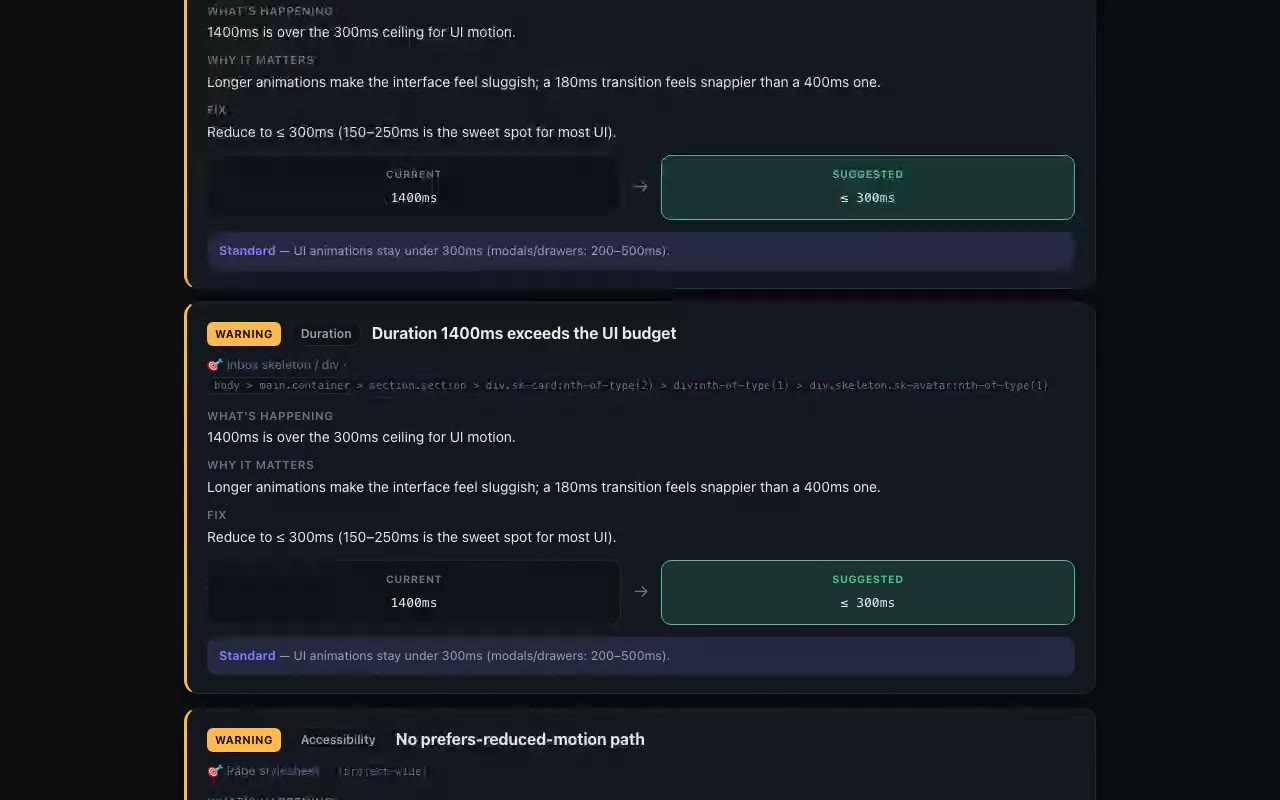
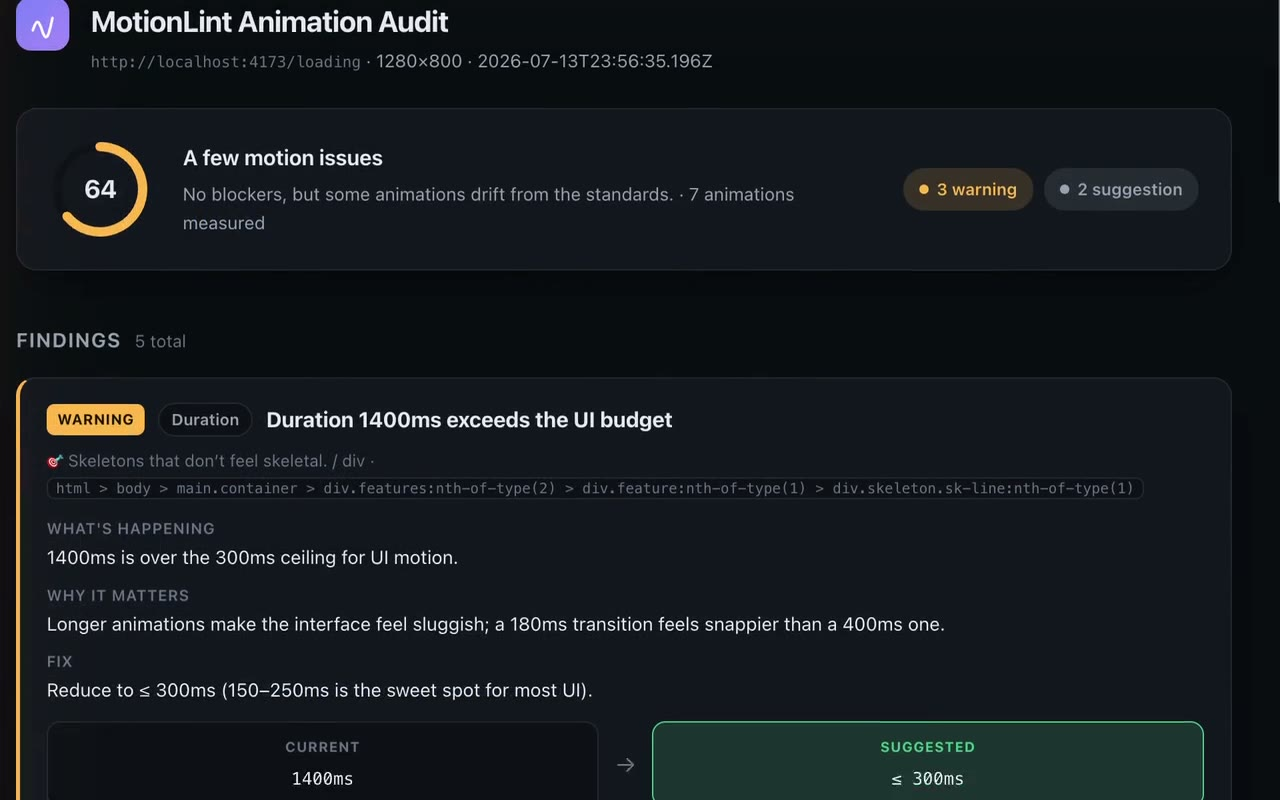
chore(demo): re-record audit-report clip with Screen Studio capture
Replaces the Playwright-recorded audit-report clip with a Screen Studio
window capture of real Chrome (2x Retina, 120fps source, rendered at 60fps)
driven by a self-scrolling copy of the report. Note: the capture machine has
Reduce Motion enabled, so the report correctly suppresses its entrance
animations (Standard 8) — the clip shows the high-fps scroll-through.

diff --git a/demo/walkthrough/index.html b/demo/walkthrough/index.html
@@ -598,7 +598,7 @@ node dist/index.js flow -u http://localhost:4173 --provider mock \
   -s "navigate /signup; type input#email=[email redacted]; click button[type=submit]; capture"</pre>
     </div>
     <p class="foot-meta reveal">MotionLint · animation standards after <a href="https://emilkowal.ski/">Emil Kowalski</a> ·
-    clips recorded with vhs + Playwright, edited with ffmpeg · artifacts generated 2026-07-13</p>
+    clips recorded with vhs, Playwright &amp; Screen Studio, edited with ffmpeg · artifacts generated 2026-07-13</p>
   </div>
 </footer>
 